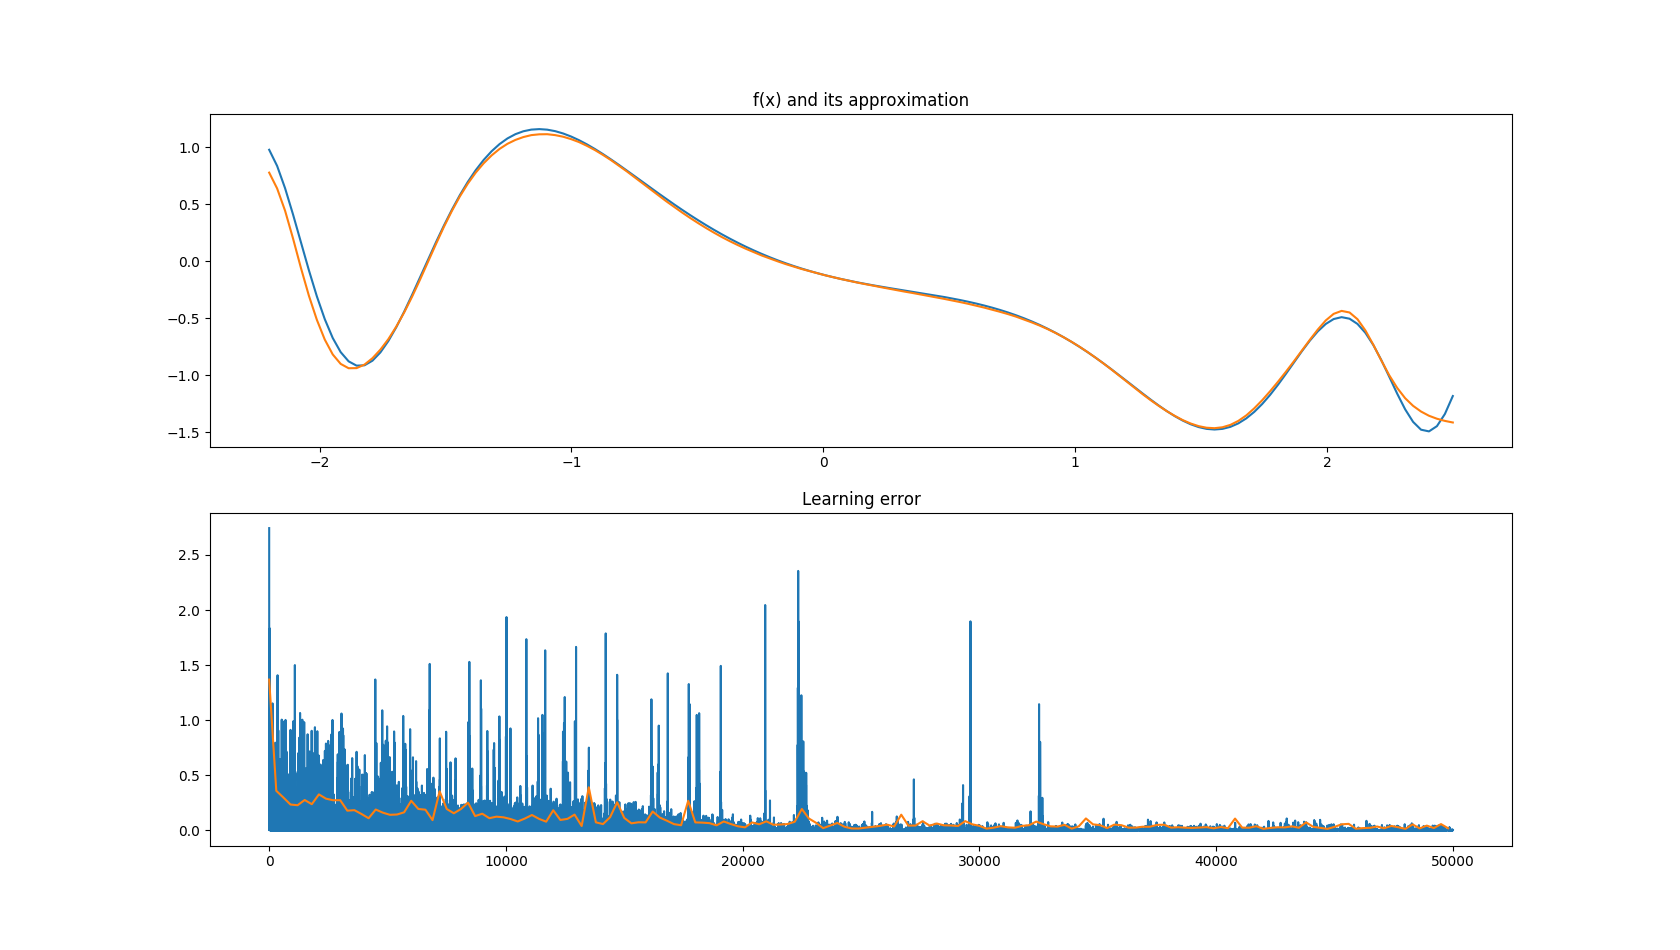
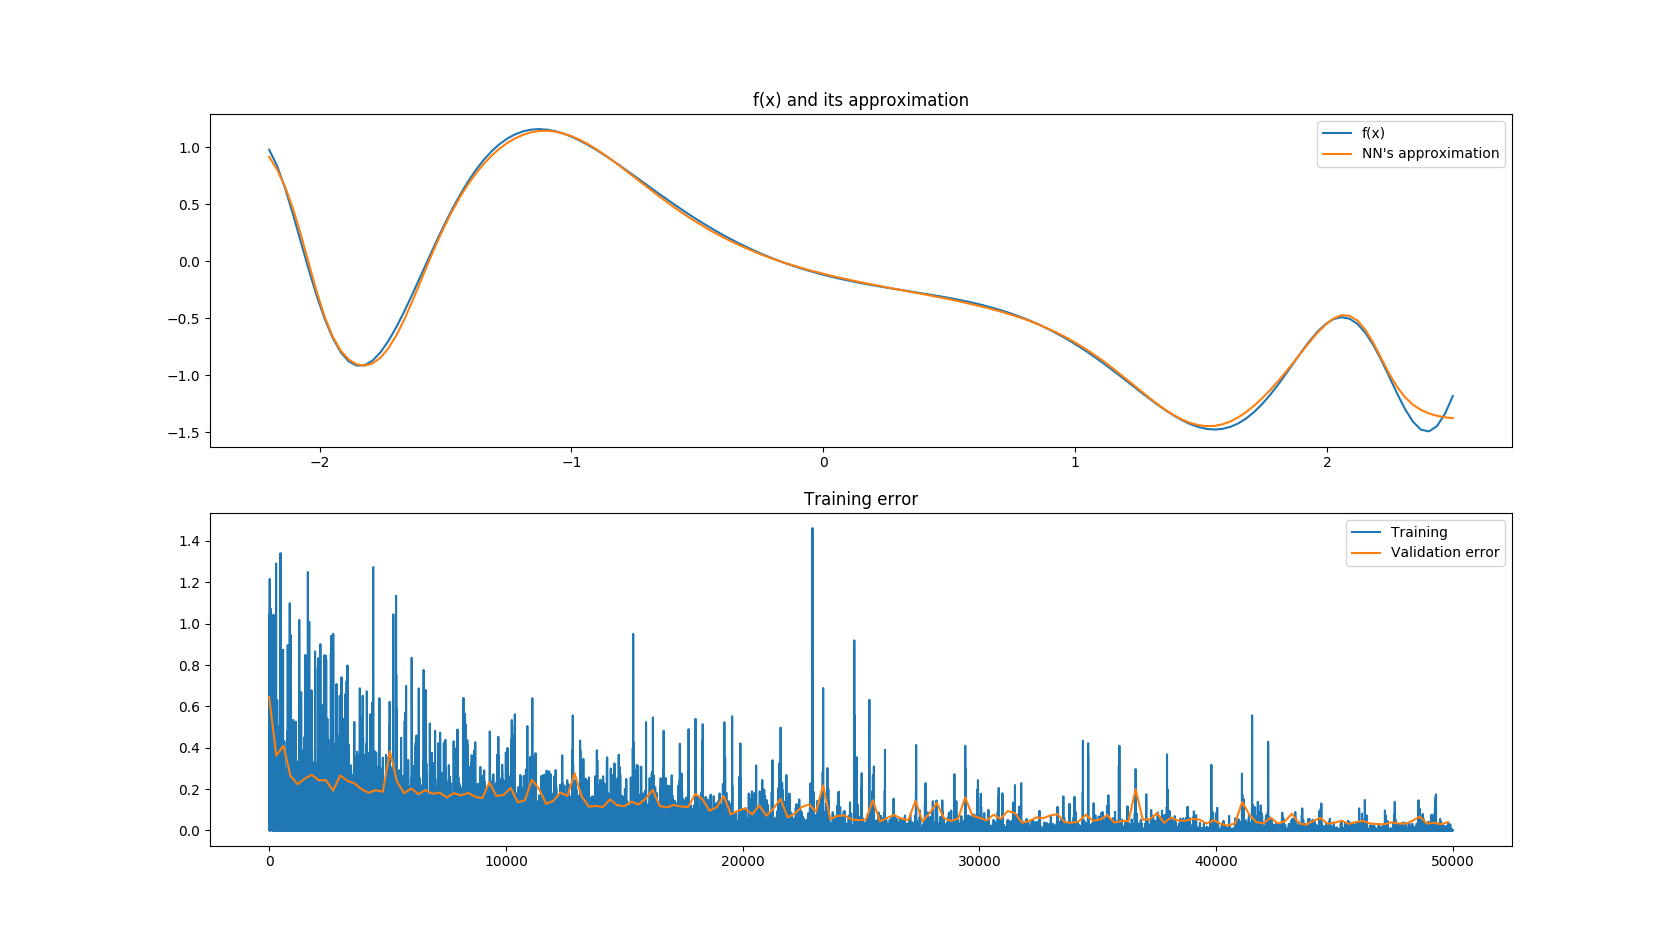
Update examples

diff --git a/examples/approximation.py b/examples/approximation.py
@@ -47,11 +47,13 @@ for v in x:
 
 plot.subplot(211)
 plot.title("f(x) and its approximation")
-plot.plot(x, y)
-plot.plot(x, y_trained)
+plot.plot(x, y, label='f(x)')
+plot.plot(x, y_trained, label="NN's approximation")
+plot.legend()
 
 plot.subplot(212)
-plot.title("Learning error")
-plot.plot(error)
-plot.plot([i * 300 for i in range(len(v_error))], v_error)
+plot.title("Training error")
+plot.plot(error, label='Training')
+plot.plot([i * 300 for i in range(len(v_error))], v_error, label='Validation error')
+plot.legend()
 plot.show()

diff --git a/examples/xor.py b/examples/xor.py
@@ -30,6 +30,6 @@ print(nn)
 for v in s:
     print(nn.get(v[0]), end='\n\n')
 
-plot.title("Learning error")
-plot.plot(E)
+plot.title("Training error")
+plot.plot(E, label='Training error')
 plot.show()
